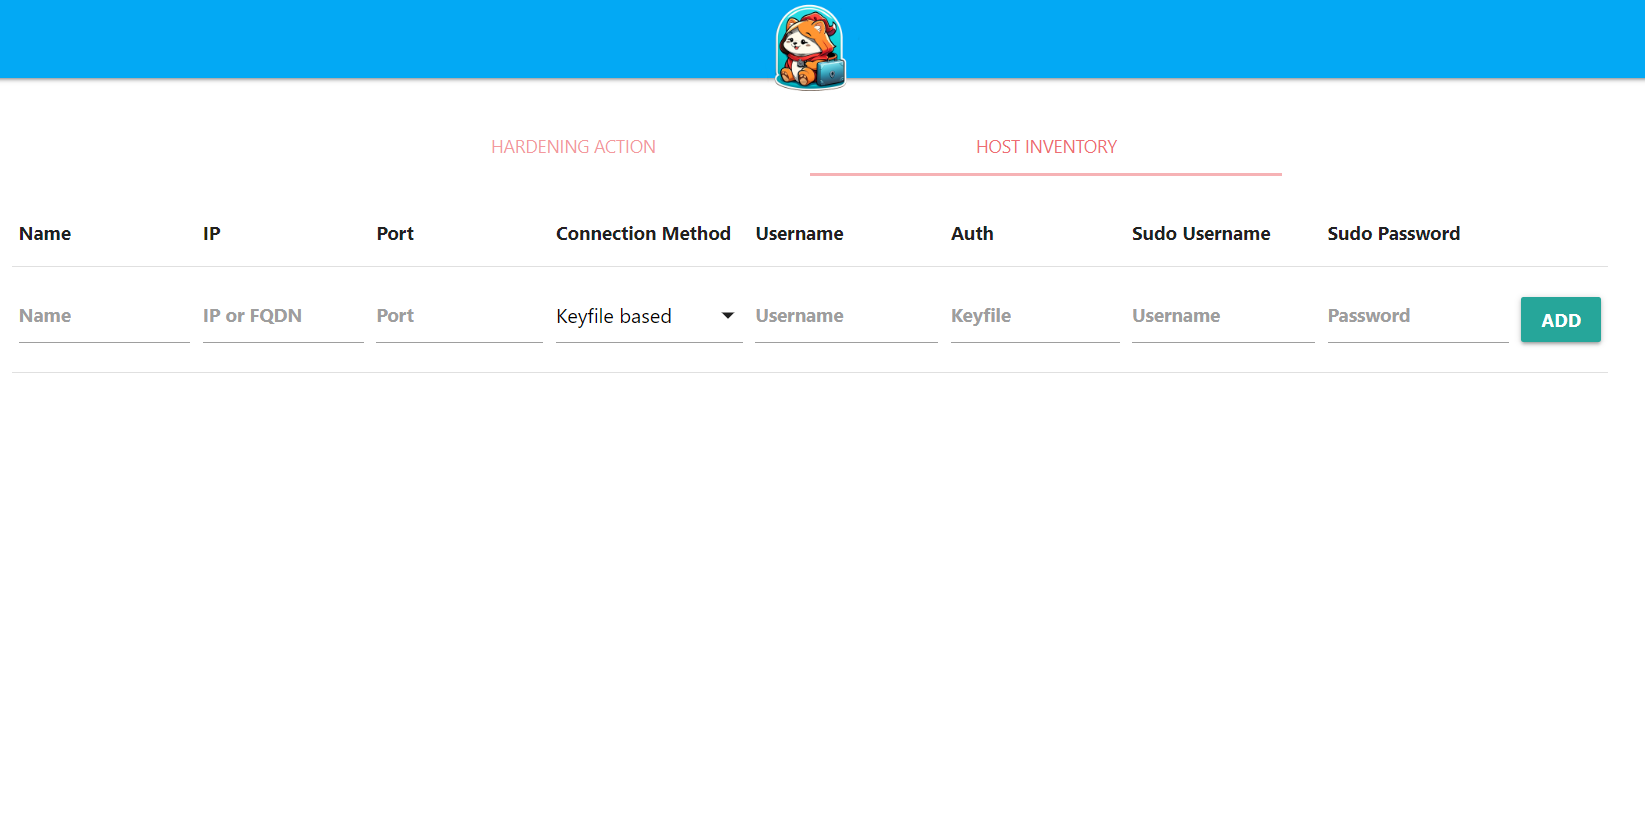
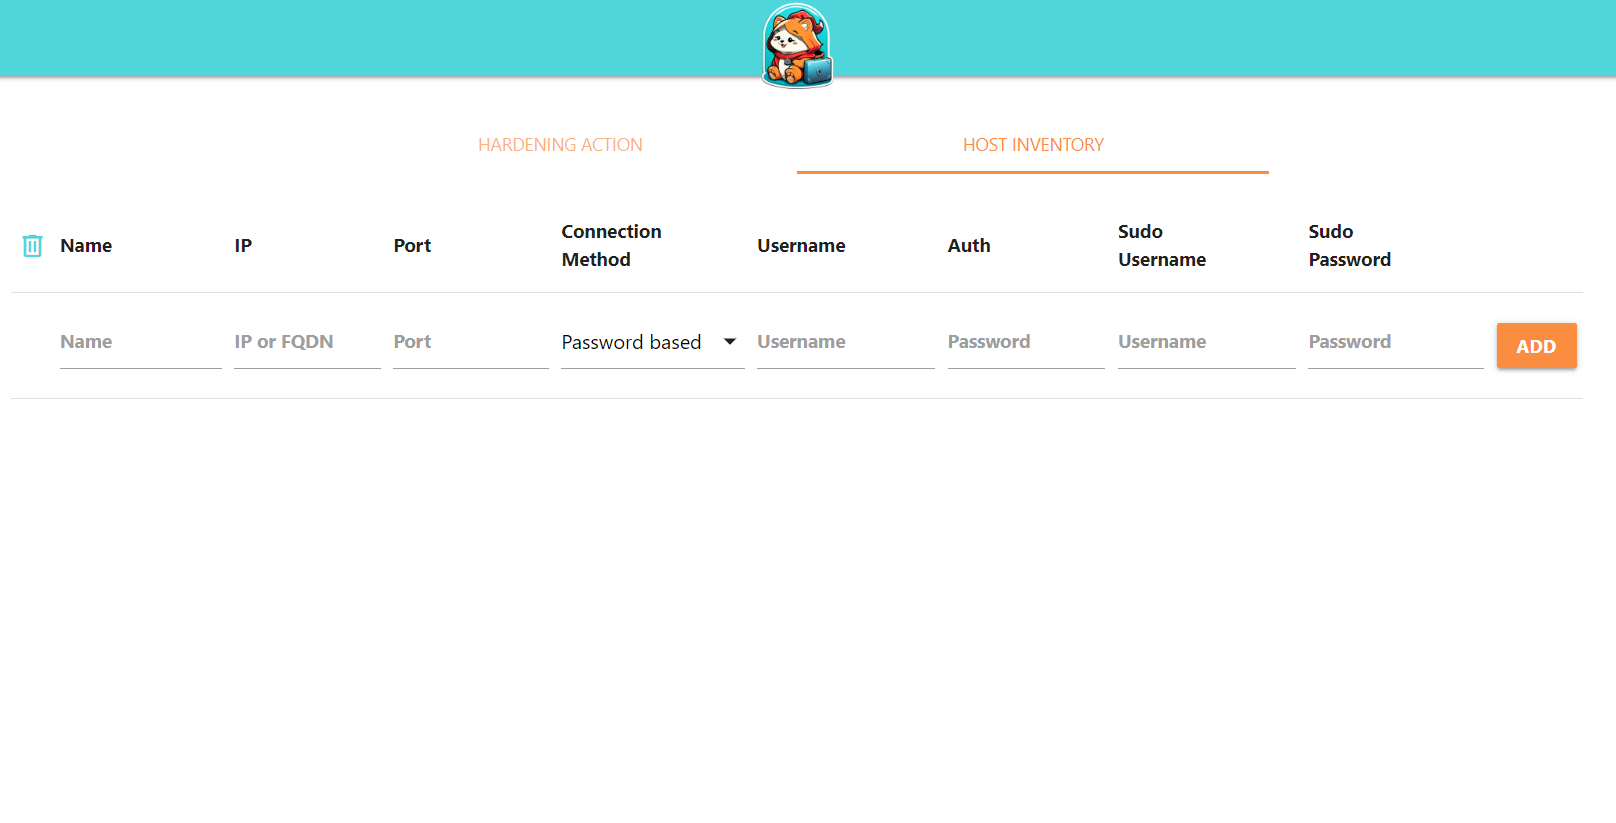
Update images

diff --git a/content/user_guide/getting_started/_index.fr.md b/content/user_guide/getting_started/_index.fr.md
@@ -40,6 +40,10 @@ Ci-dessous, voici un exemple de configuration :
 
 ![Host Inventory Tab](/images/user_guide/getting_started/host-inventory-exemple.png)
 
+Il est possible de modifier les champs en cliquant dessus directement : 
+
+![Host Inventory Tab](/images/user_guide/getting_started/host-inventory-modif.png)
+
 ## Génération des actions
 
 Dans l'onglet `HARDENING ACTION`, une liste d'actions de durcissement est disponible. Ces règles sont classées selon :

diff --git a/content/user_guide/getting_started/_index.md b/content/user_guide/getting_started/_index.md
@@ -40,6 +40,10 @@ Here is an example configuration:
 
 ![Host Inventory Tab](/images/user_guide/getting_started/host-inventory-exemple.png)
 
+You can also modify every fields by clicking on it : 
+
+![Host Inventory Tab](/images/user_guide/getting_started/host-inventory-modif.png)
+
 ## Generating actions
 
 In the `HARDENING ACTION` tab, a list of hardening actions is available. These rules are classified according to :
